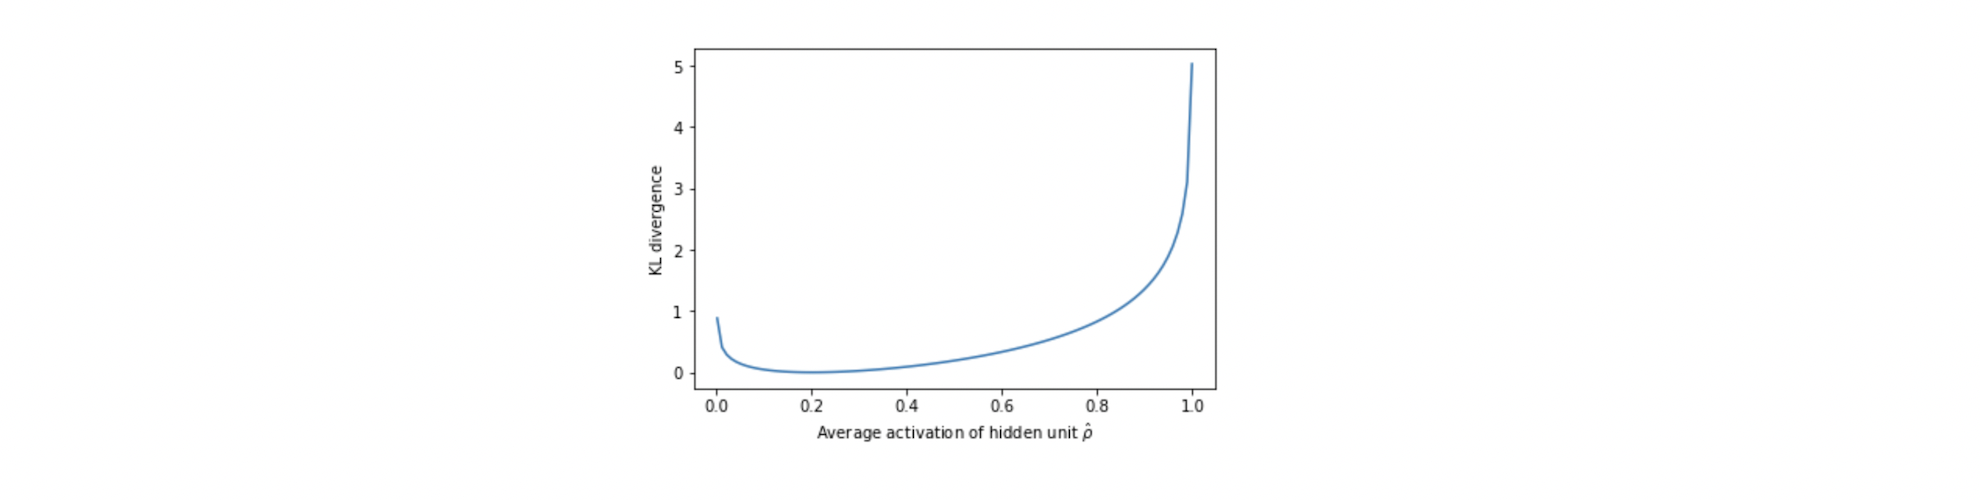
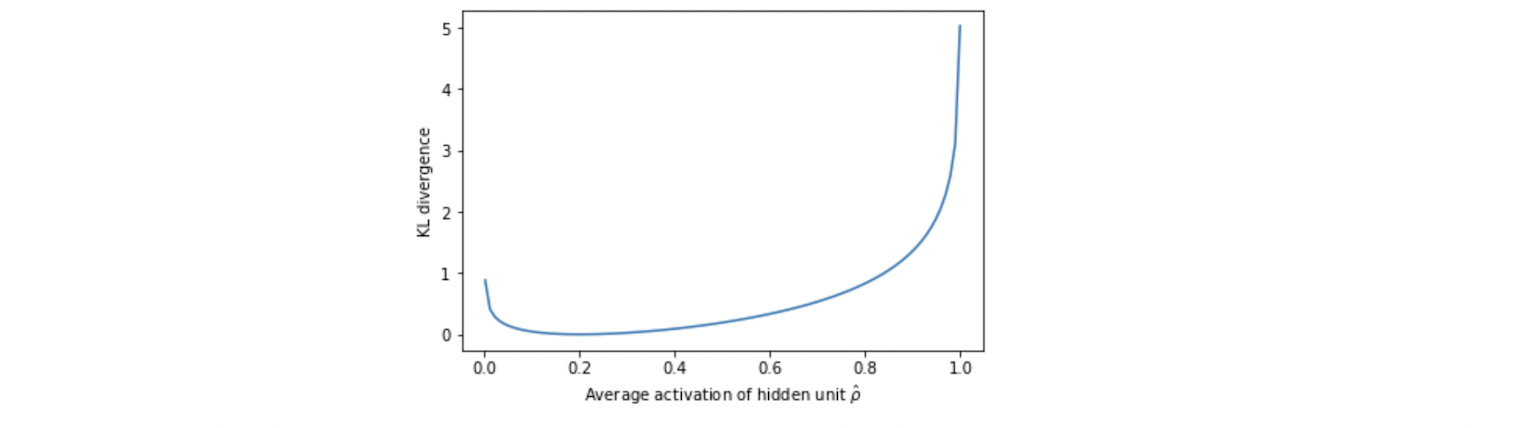
autoencoder

diff --git a/Dimensionality_Reduction/Autoencoder/README.md b/Dimensionality_Reduction/Autoencoder/README.md
@@ -77,13 +77,13 @@ This penalty function has the property that
 
  <a href="https://www.codecogs.com/eqnedit.php?latex=\textrm{KL}(\rho&space;||&space;\hat{\rho}_j)&space;=&space;0,&space;\&space;\textrm{if&space;}&space;\rho=\hat{\rho}_j" target="_blank"><img src="https://latex.codecogs.com/gif.latex?\textrm{KL}(\rho&space;||&space;\hat{\rho}_j)&space;=&space;0,&space;\&space;\textrm{if&space;}&space;\rho=\hat{\rho}_j" title="\textrm{KL}(\rho || \hat{\rho}_j) = 0, \ \textrm{if } \rho=\hat{\rho}_j" /></a>
  
- otherwise it increases monotonically as ρ̂ j diverges from ρ. As an example, in the figure below, we have set ρ=0.2, the penalty function looks like:
+ otherwise it increases monotonically as ρ̂ j diverges from ρ. As an example, in the figure below, we have set ρ=0.2, the KL divergence penalty function looks like:
 
 
 ![](images/KL_divergence_penalty.png)
 
 
-
+which has the minimum at ρ=0.2.
 
 
 
